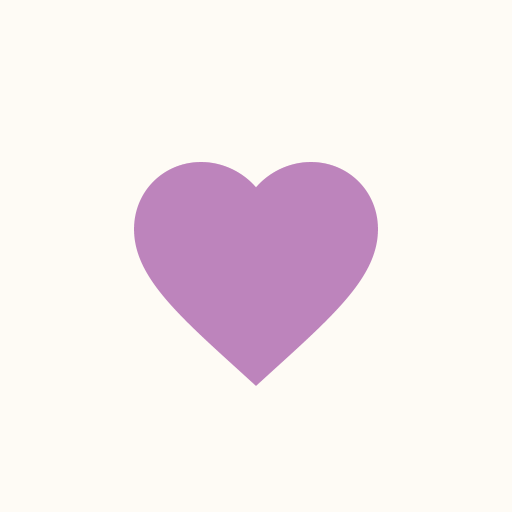
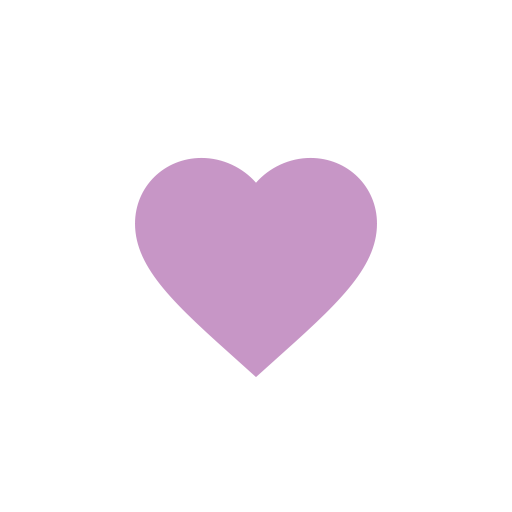
redo styles, fix related static file colors

diff --git a/src/routes/_projects.svelte b/src/routes/_projects.svelte
@@ -34,7 +34,7 @@
       </div>
       <p>{project.summary}</p>
       <p>
-        <a class="project-link" href={"/projects/" + project.slug}>Read more</a>
+        <a class="text-link" href={"/projects/" + project.slug}>Read more</a>
       </p>
     </article>
   {/each}
@@ -46,8 +46,9 @@
   }
 
   .project {
-    background-color: var(--color-background-300);
-    padding: var(--line-space);
+    // background-color: var(--color-background-300);
+    border: 2px solid var(--color-text-100);
+    padding: calc(var(--line-space) - 2px);
     margin-bottom: var(--line-space);
     border-radius: 1em;
     overflow: hidden; /* prevent margin collapse */
@@ -67,11 +68,6 @@
 
     p {
       margin-bottom: calc(var(--line-space) * 0.5);
-    }
-
-    .project-link {
-      text-decoration: underline;
-      color: var(--color-primary-400);
     }
 
     > :last-child {

diff --git a/src/styles/Theme.svelte b/src/styles/Theme.svelte
@@ -25,9 +25,9 @@
 
     --color-error: #ff495c;
 
-    --color-background-400: #fffbf2;
-    --color-background-300: #fff3d6;
-    --color-background-200: #ffedc2;
+    --color-background-400: #ffffff;
+    --color-background-300: #fff2e5;
+    --color-background-200: #ffeedd;
 
     --color-text-400: #12242b;
     --color-text-300: #47545a;
@@ -47,9 +47,9 @@
     --color-primary-600: #fbdbea;
     --color-primary-600-text: #210124;
 
-    --color-secondary-300: #323eae;
+    --color-secondary-300: #001c82;
     --color-secondary-300-text: #ffffff;
-    --color-secondary-200: #001c82;
+    --color-secondary-200: #323eae;
     --color-secondary-200-text: #ffffff;
     --color-secondary-400: #6564db;
     --color-secondary-400-text: #ffffff;

diff --git a/src/routes/index.svelte b/src/routes/index.svelte
@@ -24,7 +24,7 @@
 	<Meta
 		title="Cassidy Bandy"
 		description="Cassidy Bandy is a full-stack engineer based in UT, USA."
-		image="/embed.jpg"
+		image="/embed.png"
 	/>
 </svelte:head>
 

diff --git a/src/components/Nav.svelte b/src/components/Nav.svelte
@@ -46,9 +46,9 @@
 
 	.divider {
 		height: 1em;
-		width: 2px;
+		width: 1px;
 		background: var(--color-text-200);
-		margin: 0 1.5em;
+		margin: 0 var(--line-space);
 	}
 
 	ul {
